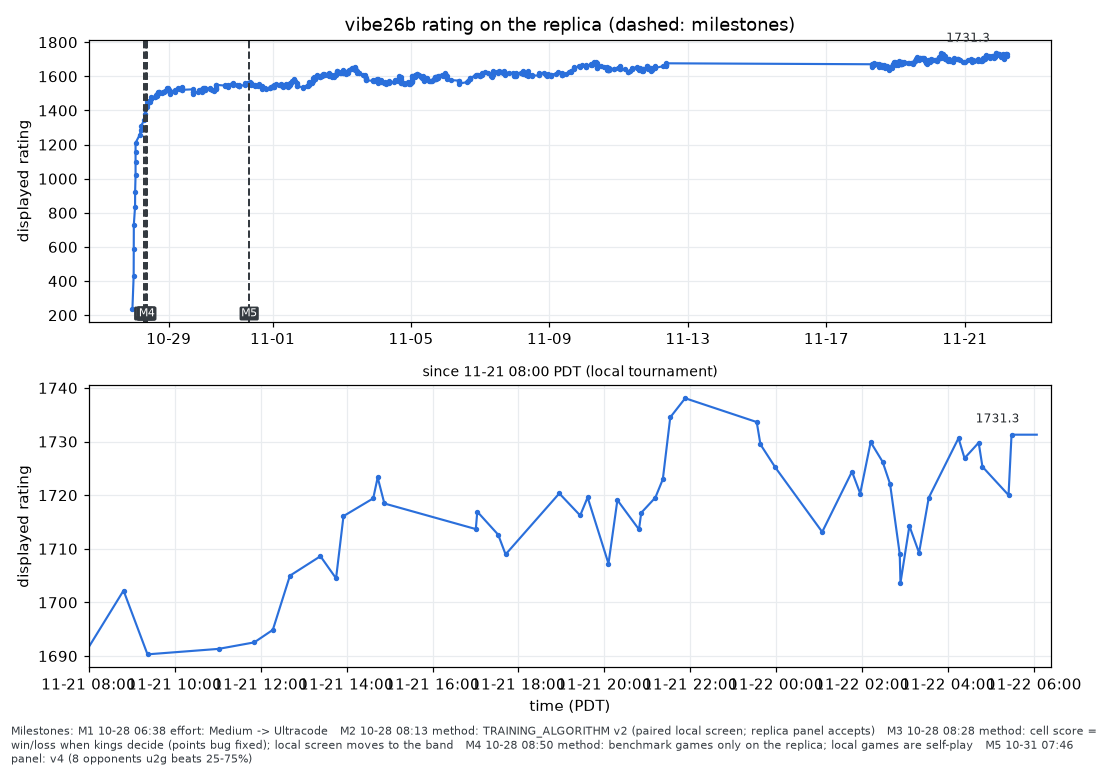
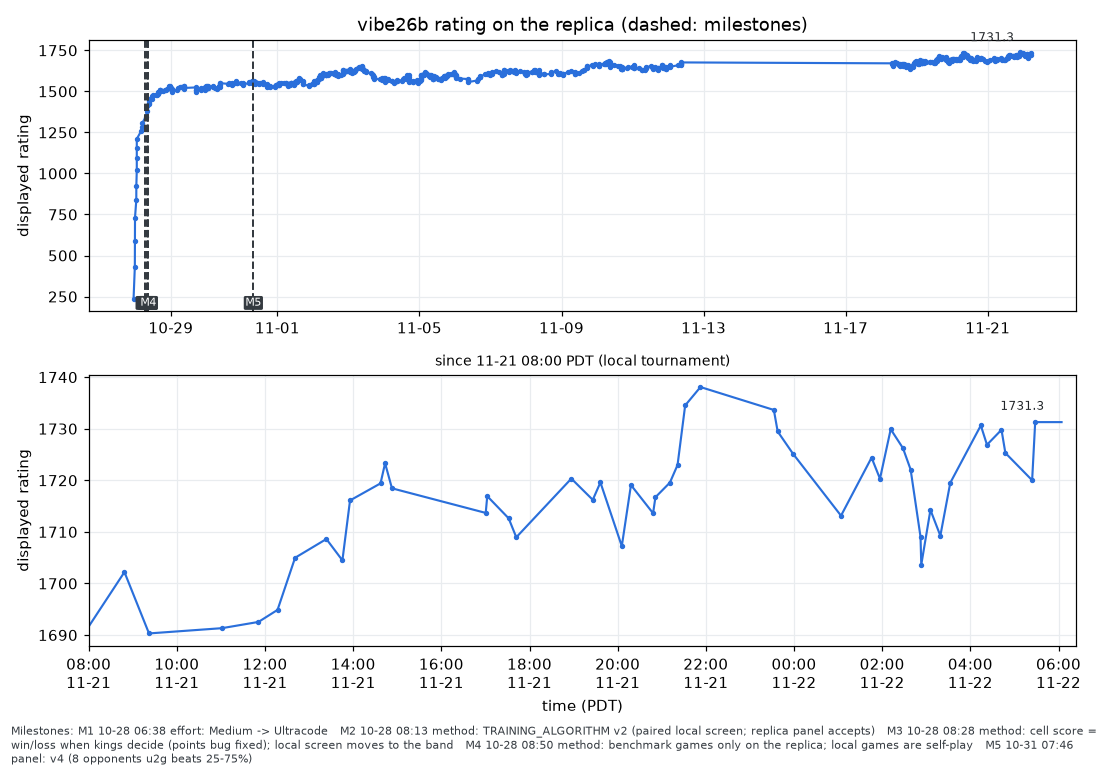
progress charts 11-22 06:04 PDT
Claude-Session: https://claude.ai/code/session_01SzziPV5YmmvGU24CuZFoPc

diff --git a/progress/rating-history.md b/progress/rating-history.md
@@ -1,6 +1,6 @@
 # Rating history (replica)
 
-Our displayed rating on the replica after each rated match, from `/api/compete/bc26/match/historical_rating/`, over the whole history and since 11-21 08:00 PDT (the local tournament), with milestones dashed. Regenerate with `tools/replica_report.py`; data fetched 2026-11-22 06:03 PDT. Times are Pacific.
+Our displayed rating on the replica after each rated match, from `/api/compete/bc26/match/historical_rating/`, over the whole history and since 11-21 08:00 PDT (the local tournament), with milestones dashed. Regenerate with `tools/replica_report.py`; data fetched 2026-11-22 06:04 PDT. Times are Pacific.
 
 ![rating history](rating-history.png)
 

diff --git a/progress/ladder.md b/progress/ladder.md
@@ -1,6 +1,6 @@
 # Galaxy replica ladder
 
-Snapshot of the Rankings page of our private galaxy replica, taken Nov 22 06:03 PDT. Written by `tools/replica_report.py`: regenerate it, do not edit it.
+Snapshot of the Rankings page of our private galaxy replica, taken Nov 22 06:04 PDT. Written by `tools/replica_report.py`: regenerate it, do not edit it.
 
 **Rating** is the replica's displayed rating (galaxy's penalized Elo, which starts every team low and climbs over its first rated matches); it is not the Bradley-Terry fit of `progress/ELO.md`. Games W-L counts the replica games in `progress/games.csv`. Our team is **vibe26b**.
 

diff --git a/progress/local-elo.md b/progress/local-elo.md
@@ -1,6 +1,6 @@
 # Local tournament Elo
 
-Bradley-Terry ratings of our own bots in the local tournament (`tools/tourney.py`), all 21207 games in one fit as of 2026-11-22 06:03 PDT, so every point is on the same scale; earlier champions are shown at their current rating. Regenerate with `tools/tourney.py chart`.
+Bradley-Terry ratings of our own bots in the local tournament (`tools/tourney.py`), all 21207 games in one fit as of 2026-11-22 06:04 PDT, so every point is on the same scale; earlier champions are shown at their current rating. Regenerate with `tools/tourney.py chart`.
 
 ![local elo](local-elo.png)
 
